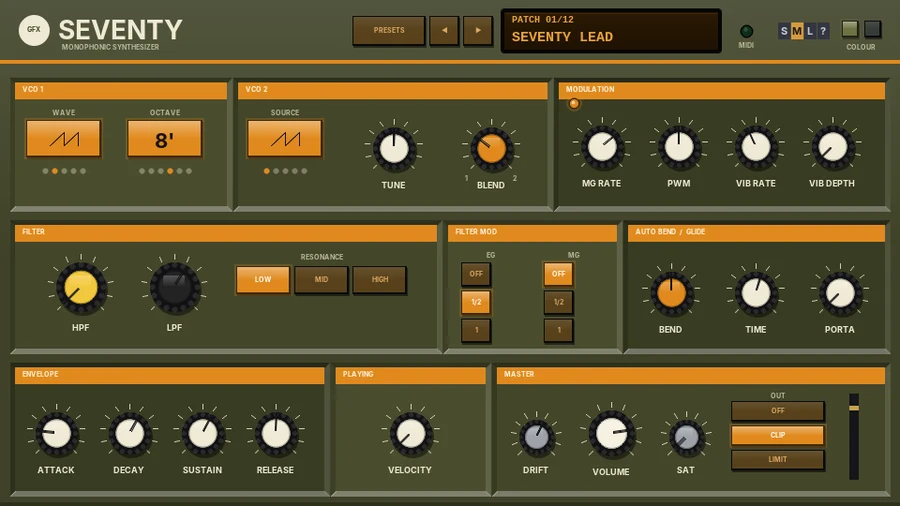
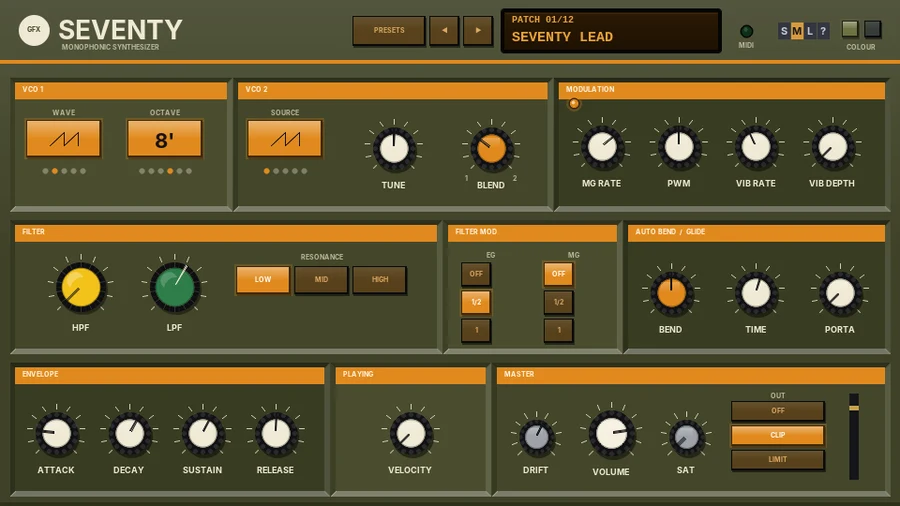
G Seventy: house HPF knob (yellow, black pointer); LPF green with a cream pointer
Claude-Session: https://claude.ai/code/session_01XdAhdLKsbgYTECPPGYwAwk

Changed region(s): [[0.1556, 0.504, 0.2178, 0.6225], [0.0622, 0.504, 0.1244, 0.6225]]

diff --git a/Manuals/gfx-g-seventy.html b/Manuals/gfx-g-seventy.html
@@ -47,7 +47,7 @@ footer{border-top:1px solid var(--line);margin-top:40px;padding:24px 0 40px;colo
 <div class="shot"><img src="img/gfx-g-seventy.webp" alt="The G Seventy panel" loading="lazy"></div>
 <h2>Overview</h2><p>G Seventy is a monophonic synth in the spirit of the mid-70s Japanese two-oscillator monos. VCO 1 gives a choice of five waves over six octaves, down to a 64' sub-bass. VCO 2 adds a second saw, a ring-modulated tone or one of three noises, and BLEND mixes the two. The sound then runs through the FILTER: a high-pass and a low-pass filter in series, each with its own knob. Move the two together and the pass band travels up and down the spectrum; pull them apart for a wide, open sound, or close them in for a thin, nasal one.</p><p>As on the originals there are no pitch or mod wheels on the panel. Instead, AUTO BEND bends the pitch into every new note and VIBRATO has its own LFO. G Seventy is unstable on purpose: DRIFT is set high by default, so the pitch, the filters and even the envelope's timing wander like an old synth warming up. Pitch bend from your keyboard still works (+/-2 semitones).</p>
 <h3>Reach for it for</h3><ul class="when"><li>Thick, wobbly 70s leads</li><li>Deep 32' and 64' bass</li><li>Ring-modulated bells and metallic tones</li><li>Wind, surf and whistle effects from the noise sources</li><li>Brass stabs with a built-in pitch scoop</li></ul>
-<h2>Controls</h2><p>WAVE, OCTAVE and SOURCE are cycle keys: click for the next setting, right-click for the one before. The dots under each key show where you are.</p><h3>VCO 1</h3><dl class="ctl"><dt>WAVE</dt><dd>Triangle, saw, square, a narrow pulse, or PW (a pulse whose width is swept by the MG, the main LFO). The key shows the wave's shape, or PW.</dd><dt>OCTAVE</dt><dd>64', 32', 16', 8', 4' or 2'. 8' is standard pitch; each step down is an octave lower.</dd></dl><h3>VCO 2</h3><dl class="ctl"><dt>SOURCE</dt><dd>Saw (a second saw), RING (VCO 1 ring-modulated by VCO 2: clangorous, bell-like tones that change with TUNE), WHITE (white noise), PINK (pink noise, darker) or RED (red noise, a deep rumble).</dd><dt>TUNE</dt><dd>VCO 2's pitch against VCO 1, -12 to +12 semitones. A few hundredths of a semitone gives a slow beat; 7 or 12 give fifths and octaves.</dd><dt>BLEND</dt><dd>The mix: fully left is VCO 1 only, fully right VCO 2 only.</dd></dl><h3>MODULATION</h3><dl class="ctl"><dt>MG RATE</dt><dd>The main LFO's speed, 0.1 to 30 Hz (a triangle wave). It sweeps the PW wave and, with the MG switch, the filters. The orange light blinks with it.</dd><dt>PWM</dt><dd>How far the MG sweeps the pulse width when VCO 1 is on PW.</dd><dt>VIB RATE / VIB DEPTH</dt><dd>Vibrato on its own LFO, separate from the MG: 1 to 12 Hz, up to 100 cents.</dd></dl><h3>FILTER</h3><dl class="ctl"><dt>HPF</dt><dd>The high-pass filter's cutoff, 20 Hz to 8 kHz (yellow knob).</dd><dt>LPF</dt><dd>The low-pass filter's cutoff, 60 Hz to 18 kHz (black knob). Both filters are 12 dB per octave.</dd><dt>RESONANCE</dt><dd>LOW, MID or HIGH: the peak at both cutoffs.</dd></dl><h3>FILTER MOD</h3><dl class="ctl"><dt>EG</dt><dd>How far the envelope opens both filters: OFF, 1/2 or 1 (about 5 octaves).</dd><dt>MG</dt><dd>How far the MG sweeps both filters: OFF, 1/2 or 1 (about 2 octaves each way).</dd></dl><h3>AUTO BEND / GLIDE</h3><dl class="ctl"><dt>BEND</dt><dd>Each new note starts this far from its pitch, -12 to +12 semitones, and bends into it. Negative scoops up from below, positive falls from above. 0 is off.</dd><dt>TIME</dt><dd>How long the bend takes, 10 ms to 2 s.</dd><dt>PORTA</dt><dd>Portamento: the pitch glides from one note to the next, 0 (off) to 1.5 s.</dd></dl><h3>ENVELOPE</h3><dl class="ctl"><dt>ATTACK, DECAY, SUSTAIN, RELEASE</dt><dd>One envelope shapes both the amp and (through the EG switch) the filters. Playing legato (overlapping notes) keeps the envelope going rather than restarting it.</dd></dl><h3>PLAYING</h3><dl class="ctl"><dt>VELOCITY</dt><dd>How much key velocity changes the level, 0% (none, as on the originals) to 100%.</dd></dl><h3>MASTER</h3><dl class="ctl"><dt>DRIFT</dt><dd>See Drift below.</dd><dt>VOLUME</dt><dd>-24 to +6 dB.</dd><dt>SAT</dt><dd>The GFX band saturation on the output (0% by default).</dd><dt>OUT: OFF / CLIP / LIMIT</dt><dd>The GFX output stage. CLIP (the default) is a soft clipper just under 0 dB; LIMIT is a look-ahead limiter. The band frequencies, bias and ceiling are in the parameter list.</dd><dt>Meter</dt><dd>The output level.</dd></dl><h3>The header</h3><dl class="ctl"><dt>PRESETS</dt><dd>Opens the patch list (or click the display). An asterisk after the patch number means you have changed it.</dd><dt>◄ / ►</dt><dd>Step through the patches.</dd><dt>MIDI</dt><dd>Blinks on each note.</dd><dt>COLOUR</dt><dd>Two swatches: olive (the default) or slate. The choice is saved with the project.</dd><dt>S / M / L</dt><dd>Panel size: small, medium or large. The panel also scales to fit the plugin window.</dd><dt>?</dt><dd>Opens a pop-up with the design credit, the GFX website address and the address of this manual. Click anywhere to close it.</dd></dl><h3>Drift</h3><p>DRIFT is heavy on G Seventy: 60% by default, scaled further than the other GFX instruments. The pitch wanders, VCO 2 drifts against VCO 1, the pulse width and both filters move, and every new note starts slightly off tune. The envelope's timing wanders too, slowly and a little differently on every note, so attacks and releases never quite repeat. Turn it down for a steadier, more modern sound; 0% is steady.</p>
+<h2>Controls</h2><p>WAVE, OCTAVE and SOURCE are cycle keys: click for the next setting, right-click for the one before. The dots under each key show where you are.</p><h3>VCO 1</h3><dl class="ctl"><dt>WAVE</dt><dd>Triangle, saw, square, a narrow pulse, or PW (a pulse whose width is swept by the MG, the main LFO). The key shows the wave's shape, or PW.</dd><dt>OCTAVE</dt><dd>64', 32', 16', 8', 4' or 2'. 8' is standard pitch; each step down is an octave lower.</dd></dl><h3>VCO 2</h3><dl class="ctl"><dt>SOURCE</dt><dd>Saw (a second saw), RING (VCO 1 ring-modulated by VCO 2: clangorous, bell-like tones that change with TUNE), WHITE (white noise), PINK (pink noise, darker) or RED (red noise, a deep rumble).</dd><dt>TUNE</dt><dd>VCO 2's pitch against VCO 1, -12 to +12 semitones. A few hundredths of a semitone gives a slow beat; 7 or 12 give fifths and octaves.</dd><dt>BLEND</dt><dd>The mix: fully left is VCO 1 only, fully right VCO 2 only.</dd></dl><h3>MODULATION</h3><dl class="ctl"><dt>MG RATE</dt><dd>The main LFO's speed, 0.1 to 30 Hz (a triangle wave). It sweeps the PW wave and, with the MG switch, the filters. The orange light blinks with it.</dd><dt>PWM</dt><dd>How far the MG sweeps the pulse width when VCO 1 is on PW.</dd><dt>VIB RATE / VIB DEPTH</dt><dd>Vibrato on its own LFO, separate from the MG: 1 to 12 Hz, up to 100 cents.</dd></dl><h3>FILTER</h3><dl class="ctl"><dt>HPF</dt><dd>The high-pass filter's cutoff, 20 Hz to 8 kHz (yellow knob).</dd><dt>LPF</dt><dd>The low-pass filter's cutoff, 60 Hz to 18 kHz (green knob). Both filters are 12 dB per octave.</dd><dt>RESONANCE</dt><dd>LOW, MID or HIGH: the peak at both cutoffs.</dd></dl><h3>FILTER MOD</h3><dl class="ctl"><dt>EG</dt><dd>How far the envelope opens both filters: OFF, 1/2 or 1 (about 5 octaves).</dd><dt>MG</dt><dd>How far the MG sweeps both filters: OFF, 1/2 or 1 (about 2 octaves each way).</dd></dl><h3>AUTO BEND / GLIDE</h3><dl class="ctl"><dt>BEND</dt><dd>Each new note starts this far from its pitch, -12 to +12 semitones, and bends into it. Negative scoops up from below, positive falls from above. 0 is off.</dd><dt>TIME</dt><dd>How long the bend takes, 10 ms to 2 s.</dd><dt>PORTA</dt><dd>Portamento: the pitch glides from one note to the next, 0 (off) to 1.5 s.</dd></dl><h3>ENVELOPE</h3><dl class="ctl"><dt>ATTACK, DECAY, SUSTAIN, RELEASE</dt><dd>One envelope shapes both the amp and (through the EG switch) the filters. Playing legato (overlapping notes) keeps the envelope going rather than restarting it.</dd></dl><h3>PLAYING</h3><dl class="ctl"><dt>VELOCITY</dt><dd>How much key velocity changes the level, 0% (none, as on the originals) to 100%.</dd></dl><h3>MASTER</h3><dl class="ctl"><dt>DRIFT</dt><dd>See Drift below.</dd><dt>VOLUME</dt><dd>-24 to +6 dB.</dd><dt>SAT</dt><dd>The GFX band saturation on the output (0% by default).</dd><dt>OUT: OFF / CLIP / LIMIT</dt><dd>The GFX output stage. CLIP (the default) is a soft clipper just under 0 dB; LIMIT is a look-ahead limiter. The band frequencies, bias and ceiling are in the parameter list.</dd><dt>Meter</dt><dd>The output level.</dd></dl><h3>The header</h3><dl class="ctl"><dt>PRESETS</dt><dd>Opens the patch list (or click the display). An asterisk after the patch number means you have changed it.</dd><dt>◄ / ►</dt><dd>Step through the patches.</dd><dt>MIDI</dt><dd>Blinks on each note.</dd><dt>COLOUR</dt><dd>Two swatches: olive (the default) or slate. The choice is saved with the project.</dd><dt>S / M / L</dt><dd>Panel size: small, medium or large. The panel also scales to fit the plugin window.</dd><dt>?</dt><dd>Opens a pop-up with the design credit, the GFX website address and the address of this manual. Click anywhere to close it.</dd></dl><h3>Drift</h3><p>DRIFT is heavy on G Seventy: 60% by default, scaled further than the other GFX instruments. The pitch wanders, VCO 2 drifts against VCO 1, the pulse width and both filters move, and every new note starts slightly off tune. The envelope's timing wanders too, slowly and a little differently on every note, so attacks and releases never quite repeat. Turn it down for a steadier, more modern sound; 0% is steady.</p>
 <h2>Patches</h2><dl class="ctl"><dt>Seventy Lead</dt><dd>Saw with a slightly detuned second saw, gentle vibrato and a touch of portamento.</dd><dt>64' Bass</dt><dd>A 32' square with VCO 2 an octave up: deep and round.</dd><dt>Filter Sweep</dt><dd>Two saws with the MG slowly sweeping the filters at high resonance.</dd><dt>Ring Bells</dt><dd>Ring modulation a fifth apart, long decay: bell and gong tones.</dd><dt>PWM Strings</dt><dd>A slow PWM wave with a soft attack and release.</dd><dt>Auto Bend Brass</dt><dd>Saws with the envelope fully on the filter and a short scoop up into every note.</dd><dt>Whistle</dt><dd>Mostly triangle, with a breath of pink noise through a resonant band.</dd><dt>Wind</dt><dd>Pink noise only, the filters swept slowly by the MG at high resonance.</dd><dt>Squelch</dt><dd>A 16' pulse through a nearly closed, resonant low-pass with a snappy envelope.</dd><dt>Theremin</dt><dd>A pure triangle with wide vibrato and slow portamento.</dd><dt>Zap Drum</dt><dd>A 32' triangle with white noise, dropping an octave in 70 ms: a laser-like tom.</dd><dt>Hollow Pipe</dt><dd>A square with VCO 2 an octave up through a narrow band.</dd></dl>
 <h2>Tips</h2><ul class="tips"><li>Set HPF and LPF close together with RESONANCE on HIGH, then turn them as a pair for a talking, vocal sweep.</li><li>For ring-mod effects, try TUNE settings that are not whole semitones.</li><li>AUTO BEND with a short TIME and -1 to -3 semitones gives brass-like scoops; long times give sci-fi swoops.</li><li>With OCTAVE on 64', keep the HPF low or the fundamental disappears.</li></ul>
 <p class="file">File: gfx-g-seventy.jsfx</p></section></main>

diff --git a/Manuals/all.html b/Manuals/all.html
@@ -179,7 +179,7 @@ footer{border-top:1px solid var(--line);margin-top:40px;padding:24px 0 40px;colo
 <div class="shot"><img src="img/gfx-g-seventy.webp" alt="The G Seventy panel" loading="lazy"></div>
 <h2>Overview</h2><p>G Seventy is a monophonic synth in the spirit of the mid-70s Japanese two-oscillator monos. VCO 1 gives a choice of five waves over six octaves, down to a 64' sub-bass. VCO 2 adds a second saw, a ring-modulated tone or one of three noises, and BLEND mixes the two. The sound then runs through the FILTER: a high-pass and a low-pass filter in series, each with its own knob. Move the two together and the pass band travels up and down the spectrum; pull them apart for a wide, open sound, or close them in for a thin, nasal one.</p><p>As on the originals there are no pitch or mod wheels on the panel. Instead, AUTO BEND bends the pitch into every new note and VIBRATO has its own LFO. G Seventy is unstable on purpose: DRIFT is set high by default, so the pitch, the filters and even the envelope's timing wander like an old synth warming up. Pitch bend from your keyboard still works (+/-2 semitones).</p>
 <h3>Reach for it for</h3><ul class="when"><li>Thick, wobbly 70s leads</li><li>Deep 32' and 64' bass</li><li>Ring-modulated bells and metallic tones</li><li>Wind, surf and whistle effects from the noise sources</li><li>Brass stabs with a built-in pitch scoop</li></ul>
-<h2>Controls</h2><p>WAVE, OCTAVE and SOURCE are cycle keys: click for the next setting, right-click for the one before. The dots under each key show where you are.</p><h3>VCO 1</h3><dl class="ctl"><dt>WAVE</dt><dd>Triangle, saw, square, a narrow pulse, or PW (a pulse whose width is swept by the MG, the main LFO). The key shows the wave's shape, or PW.</dd><dt>OCTAVE</dt><dd>64', 32', 16', 8', 4' or 2'. 8' is standard pitch; each step down is an octave lower.</dd></dl><h3>VCO 2</h3><dl class="ctl"><dt>SOURCE</dt><dd>Saw (a second saw), RING (VCO 1 ring-modulated by VCO 2: clangorous, bell-like tones that change with TUNE), WHITE (white noise), PINK (pink noise, darker) or RED (red noise, a deep rumble).</dd><dt>TUNE</dt><dd>VCO 2's pitch against VCO 1, -12 to +12 semitones. A few hundredths of a semitone gives a slow beat; 7 or 12 give fifths and octaves.</dd><dt>BLEND</dt><dd>The mix: fully left is VCO 1 only, fully right VCO 2 only.</dd></dl><h3>MODULATION</h3><dl class="ctl"><dt>MG RATE</dt><dd>The main LFO's speed, 0.1 to 30 Hz (a triangle wave). It sweeps the PW wave and, with the MG switch, the filters. The orange light blinks with it.</dd><dt>PWM</dt><dd>How far the MG sweeps the pulse width when VCO 1 is on PW.</dd><dt>VIB RATE / VIB DEPTH</dt><dd>Vibrato on its own LFO, separate from the MG: 1 to 12 Hz, up to 100 cents.</dd></dl><h3>FILTER</h3><dl class="ctl"><dt>HPF</dt><dd>The high-pass filter's cutoff, 20 Hz to 8 kHz (yellow knob).</dd><dt>LPF</dt><dd>The low-pass filter's cutoff, 60 Hz to 18 kHz (black knob). Both filters are 12 dB per octave.</dd><dt>RESONANCE</dt><dd>LOW, MID or HIGH: the peak at both cutoffs.</dd></dl><h3>FILTER MOD</h3><dl class="ctl"><dt>EG</dt><dd>How far the envelope opens both filters: OFF, 1/2 or 1 (about 5 octaves).</dd><dt>MG</dt><dd>How far the MG sweeps both filters: OFF, 1/2 or 1 (about 2 octaves each way).</dd></dl><h3>AUTO BEND / GLIDE</h3><dl class="ctl"><dt>BEND</dt><dd>Each new note starts this far from its pitch, -12 to +12 semitones, and bends into it. Negative scoops up from below, positive falls from above. 0 is off.</dd><dt>TIME</dt><dd>How long the bend takes, 10 ms to 2 s.</dd><dt>PORTA</dt><dd>Portamento: the pitch glides from one note to the next, 0 (off) to 1.5 s.</dd></dl><h3>ENVELOPE</h3><dl class="ctl"><dt>ATTACK, DECAY, SUSTAIN, RELEASE</dt><dd>One envelope shapes both the amp and (through the EG switch) the filters. Playing legato (overlapping notes) keeps the envelope going rather than restarting it.</dd></dl><h3>PLAYING</h3><dl class="ctl"><dt>VELOCITY</dt><dd>How much key velocity changes the level, 0% (none, as on the originals) to 100%.</dd></dl><h3>MASTER</h3><dl class="ctl"><dt>DRIFT</dt><dd>See Drift below.</dd><dt>VOLUME</dt><dd>-24 to +6 dB.</dd><dt>SAT</dt><dd>The GFX band saturation on the output (0% by default).</dd><dt>OUT: OFF / CLIP / LIMIT</dt><dd>The GFX output stage. CLIP (the default) is a soft clipper just under 0 dB; LIMIT is a look-ahead limiter. The band frequencies, bias and ceiling are in the parameter list.</dd><dt>Meter</dt><dd>The output level.</dd></dl><h3>The header</h3><dl class="ctl"><dt>PRESETS</dt><dd>Opens the patch list (or click the display). An asterisk after the patch number means you have changed it.</dd><dt>◄ / ►</dt><dd>Step through the patches.</dd><dt>MIDI</dt><dd>Blinks on each note.</dd><dt>COLOUR</dt><dd>Two swatches: olive (the default) or slate. The choice is saved with the project.</dd><dt>S / M / L</dt><dd>Panel size: small, medium or large. The panel also scales to fit the plugin window.</dd><dt>?</dt><dd>Opens a pop-up with the design credit, the GFX website address and the address of this manual. Click anywhere to close it.</dd></dl><h3>Drift</h3><p>DRIFT is heavy on G Seventy: 60% by default, scaled further than the other GFX instruments. The pitch wanders, VCO 2 drifts against VCO 1, the pulse width and both filters move, and every new note starts slightly off tune. The envelope's timing wanders too, slowly and a little differently on every note, so attacks and releases never quite repeat. Turn it down for a steadier, more modern sound; 0% is steady.</p>
+<h2>Controls</h2><p>WAVE, OCTAVE and SOURCE are cycle keys: click for the next setting, right-click for the one before. The dots under each key show where you are.</p><h3>VCO 1</h3><dl class="ctl"><dt>WAVE</dt><dd>Triangle, saw, square, a narrow pulse, or PW (a pulse whose width is swept by the MG, the main LFO). The key shows the wave's shape, or PW.</dd><dt>OCTAVE</dt><dd>64', 32', 16', 8', 4' or 2'. 8' is standard pitch; each step down is an octave lower.</dd></dl><h3>VCO 2</h3><dl class="ctl"><dt>SOURCE</dt><dd>Saw (a second saw), RING (VCO 1 ring-modulated by VCO 2: clangorous, bell-like tones that change with TUNE), WHITE (white noise), PINK (pink noise, darker) or RED (red noise, a deep rumble).</dd><dt>TUNE</dt><dd>VCO 2's pitch against VCO 1, -12 to +12 semitones. A few hundredths of a semitone gives a slow beat; 7 or 12 give fifths and octaves.</dd><dt>BLEND</dt><dd>The mix: fully left is VCO 1 only, fully right VCO 2 only.</dd></dl><h3>MODULATION</h3><dl class="ctl"><dt>MG RATE</dt><dd>The main LFO's speed, 0.1 to 30 Hz (a triangle wave). It sweeps the PW wave and, with the MG switch, the filters. The orange light blinks with it.</dd><dt>PWM</dt><dd>How far the MG sweeps the pulse width when VCO 1 is on PW.</dd><dt>VIB RATE / VIB DEPTH</dt><dd>Vibrato on its own LFO, separate from the MG: 1 to 12 Hz, up to 100 cents.</dd></dl><h3>FILTER</h3><dl class="ctl"><dt>HPF</dt><dd>The high-pass filter's cutoff, 20 Hz to 8 kHz (yellow knob).</dd><dt>LPF</dt><dd>The low-pass filter's cutoff, 60 Hz to 18 kHz (green knob). Both filters are 12 dB per octave.</dd><dt>RESONANCE</dt><dd>LOW, MID or HIGH: the peak at both cutoffs.</dd></dl><h3>FILTER MOD</h3><dl class="ctl"><dt>EG</dt><dd>How far the envelope opens both filters: OFF, 1/2 or 1 (about 5 octaves).</dd><dt>MG</dt><dd>How far the MG sweeps both filters: OFF, 1/2 or 1 (about 2 octaves each way).</dd></dl><h3>AUTO BEND / GLIDE</h3><dl class="ctl"><dt>BEND</dt><dd>Each new note starts this far from its pitch, -12 to +12 semitones, and bends into it. Negative scoops up from below, positive falls from above. 0 is off.</dd><dt>TIME</dt><dd>How long the bend takes, 10 ms to 2 s.</dd><dt>PORTA</dt><dd>Portamento: the pitch glides from one note to the next, 0 (off) to 1.5 s.</dd></dl><h3>ENVELOPE</h3><dl class="ctl"><dt>ATTACK, DECAY, SUSTAIN, RELEASE</dt><dd>One envelope shapes both the amp and (through the EG switch) the filters. Playing legato (overlapping notes) keeps the envelope going rather than restarting it.</dd></dl><h3>PLAYING</h3><dl class="ctl"><dt>VELOCITY</dt><dd>How much key velocity changes the level, 0% (none, as on the originals) to 100%.</dd></dl><h3>MASTER</h3><dl class="ctl"><dt>DRIFT</dt><dd>See Drift below.</dd><dt>VOLUME</dt><dd>-24 to +6 dB.</dd><dt>SAT</dt><dd>The GFX band saturation on the output (0% by default).</dd><dt>OUT: OFF / CLIP / LIMIT</dt><dd>The GFX output stage. CLIP (the default) is a soft clipper just under 0 dB; LIMIT is a look-ahead limiter. The band frequencies, bias and ceiling are in the parameter list.</dd><dt>Meter</dt><dd>The output level.</dd></dl><h3>The header</h3><dl class="ctl"><dt>PRESETS</dt><dd>Opens the patch list (or click the display). An asterisk after the patch number means you have changed it.</dd><dt>◄ / ►</dt><dd>Step through the patches.</dd><dt>MIDI</dt><dd>Blinks on each note.</dd><dt>COLOUR</dt><dd>Two swatches: olive (the default) or slate. The choice is saved with the project.</dd><dt>S / M / L</dt><dd>Panel size: small, medium or large. The panel also scales to fit the plugin window.</dd><dt>?</dt><dd>Opens a pop-up with the design credit, the GFX website address and the address of this manual. Click anywhere to close it.</dd></dl><h3>Drift</h3><p>DRIFT is heavy on G Seventy: 60% by default, scaled further than the other GFX instruments. The pitch wanders, VCO 2 drifts against VCO 1, the pulse width and both filters move, and every new note starts slightly off tune. The envelope's timing wanders too, slowly and a little differently on every note, so attacks and releases never quite repeat. Turn it down for a steadier, more modern sound; 0% is steady.</p>
 <h2>Patches</h2><dl class="ctl"><dt>Seventy Lead</dt><dd>Saw with a slightly detuned second saw, gentle vibrato and a touch of portamento.</dd><dt>64' Bass</dt><dd>A 32' square with VCO 2 an octave up: deep and round.</dd><dt>Filter Sweep</dt><dd>Two saws with the MG slowly sweeping the filters at high resonance.</dd><dt>Ring Bells</dt><dd>Ring modulation a fifth apart, long decay: bell and gong tones.</dd><dt>PWM Strings</dt><dd>A slow PWM wave with a soft attack and release.</dd><dt>Auto Bend Brass</dt><dd>Saws with the envelope fully on the filter and a short scoop up into every note.</dd><dt>Whistle</dt><dd>Mostly triangle, with a breath of pink noise through a resonant band.</dd><dt>Wind</dt><dd>Pink noise only, the filters swept slowly by the MG at high resonance.</dd><dt>Squelch</dt><dd>A 16' pulse through a nearly closed, resonant low-pass with a snappy envelope.</dd><dt>Theremin</dt><dd>A pure triangle with wide vibrato and slow portamento.</dd><dt>Zap Drum</dt><dd>A 32' triangle with white noise, dropping an octave in 70 ms: a laser-like tom.</dd><dt>Hollow Pipe</dt><dd>A square with VCO 2 an octave up through a narrow band.</dd></dl>
 <h2>Tips</h2><ul class="tips"><li>Set HPF and LPF close together with RESONANCE on HIGH, then turn them as a pair for a talking, vocal sweep.</li><li>For ring-mod effects, try TUNE settings that are not whole semitones.</li><li>AUTO BEND with a short TIME and -1 to -3 semitones gives brass-like scoops; long times give sci-fi swoops.</li><li>With OCTAVE on 64', keep the HPF low or the fundamental disappears.</li></ul>
 <p class="file">File: gfx-g-seventy.jsfx</p></section>
